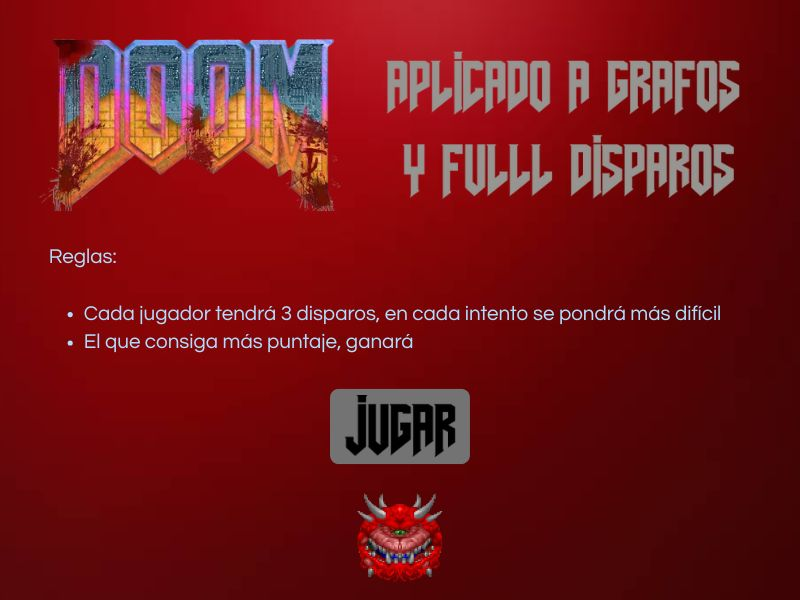
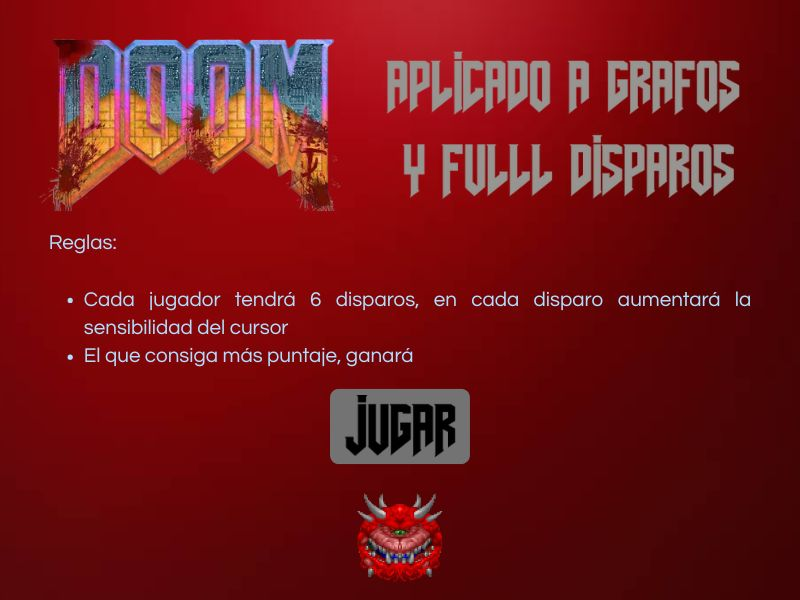
algunos cambios en textos, las variables no se reiniciaban automaticamente, cambie el diseño de la pagina de inicio

Changed region(s): [[0.0625, 0.48, 0.9375, 0.63], [0.0625, 0.39, 0.1562, 0.45]]

diff --git a/EDA/main.py b/EDA/main.py
@@ -15,7 +15,7 @@ ALTO = 600
 pygame.init()
 pygame.mixer.init()
 PANTALLA = pygame.display.set_mode((ANCHO, ALTO))
-pygame.display.set_caption("Grafos con Doom - Final Clean")
+pygame.display.set_caption("Grafos con Doom")
 
 reloj = pygame.time.Clock()
 
@@ -39,7 +39,7 @@ juego.inicializar_personaje()
 vista = Vista_Hitbox_Doom(PANTALLA)
 
 estado = "MENU"
-balas = 10
+balas = 6
 puntaje = 0
 ubi_boton = pygame.Rect(300, 400, 200, 80)
 
@@ -79,15 +79,15 @@ while True:
         if evento.type == pygame.KEYDOWN and estado == "ESTRATEGIA":
             if evento.key == pygame.K_a:
                 tipo_municion = "PESADA"
-                descripcion_bonus = "EFECTO: Daño Crítico (+50% Pts) | RETROCESO ALTO"
+                descripcion_bonus = "RETROCESO ALTO + 50% Pts"
                 multiplicador_puntos = 1.5      
                 incremento_temblor = 25         
                 estado = "JUEGO"
             elif evento.key == pygame.K_s:
                 tipo_municion = "LIGERA"
-                descripcion_bonus = "EFECTO: Daño Estándar | RETROCESO BAJO"
+                descripcion_bonus = "RETROCESO BAJO + Daño Estándar"
                 multiplicador_puntos = 1.0      
-                incremento_temblor = 5          
+                incremento_temblor = 15          
                 estado = "JUEGO"
         
 
@@ -105,7 +105,7 @@ while True:
                     "Jugador 2": {"Total Damage": 0, "Nodos Destruidos": [], "Puntaje": 0}
                 }
                 
-                balas = 3 
+                balas = 6 
                 puntaje = 0
                 vista.temblor = 0
                 juego = Grafo_Cuerpo()
@@ -171,7 +171,7 @@ while True:
                     if jugador_turno == 1:
                         # si es el J1, pasamos al J2
                         jugador_turno = 2
-                        balas = 3
+                        balas = 6
                         puntaje = 0
                         vista.temblor = 0
                         juego = Grafo_Cuerpo()
@@ -182,10 +182,22 @@ while True:
                         # si es J2, fin del juego, regresa a menu
                         print("Fin del juego, regresando al menú...")
                         guardar_datos_json(datos_sesion)
+                        # Resetear variables para nueva partida
+                        jugador_turno = 1
+                        balas = 6
+                        puntaje = 0
+                        vista.temblor = 0
+                        puntajes_finales = [0, 0]
                         estado = "MENU"
                     
 
                 elif vista.boton_menu.collidepoint(mouse_pos):
+                    # Resetear variables para nueva partida
+                    jugador_turno = 1
+                    balas = 6
+                    puntaje = 0
+                    vista.temblor = 0
+                    puntajes_finales = [0, 0]
                     estado = "MENU"
 
     # DIBUJAR EN PANTALLA
@@ -200,11 +212,11 @@ while True:
         PANTALLA.fill((20, 20, 40)) 
         fuente = pygame.font.SysFont("Arial", 30, bold=True)
         titulo = fuente.render(f"JUGADOR {jugador_turno}: ELIGE TU MUNICIÓN", True, (255, 255, 0))
-        txt_a = fuente.render("[A] PESADA:  +50% Puntos | Mucho Retroceso", True, (255, 100, 100))
-        txt_s = fuente.render("[S] LIGERA:  Puntos Normales | Puntería Estable", True, (100, 255, 100))
+        txt_a = fuente.render("[A] PESADA, Mucho Retroceso", True, (255, 100, 100))
+        txt_s = fuente.render("[S] LIGERA, Puntería Estable", True, (100, 255, 100))
         PANTALLA.blit(titulo, (150, 150))
-        PANTALLA.blit(txt_a, (100, 250))
-        PANTALLA.blit(txt_s, (100, 320))
+        PANTALLA.blit(txt_a, (150, 250))
+        PANTALLA.blit(txt_s, (150, 320))
 
     elif estado == "JUEGO":
         lista_nodos_finales = list(juego.nodos.values())
@@ -238,4 +250,4 @@ while True:
         pygame.mouse.set_visible(True)
 
     pygame.display.flip()
-    reloj.tick(60)
+    reloj.tick(120)  ## cantidad de FPS

diff --git a/EDA/vista.py b/EDA/vista.py
@@ -51,7 +51,7 @@ class Vista_Hitbox_Doom:
         puntos = self.fuente_chica.render(f"Puntaje Final: {puntaje}", True, (255, 255, 255))
 
         # Posicion de los textos 
-        self.pantalla.blit(titulo, (230, 150))
+        self.pantalla.blit(titulo, (200, 150))
         self.pantalla.blit(puntos, (280, 250))
 
         # Boton siguiente jugador (Verde)
